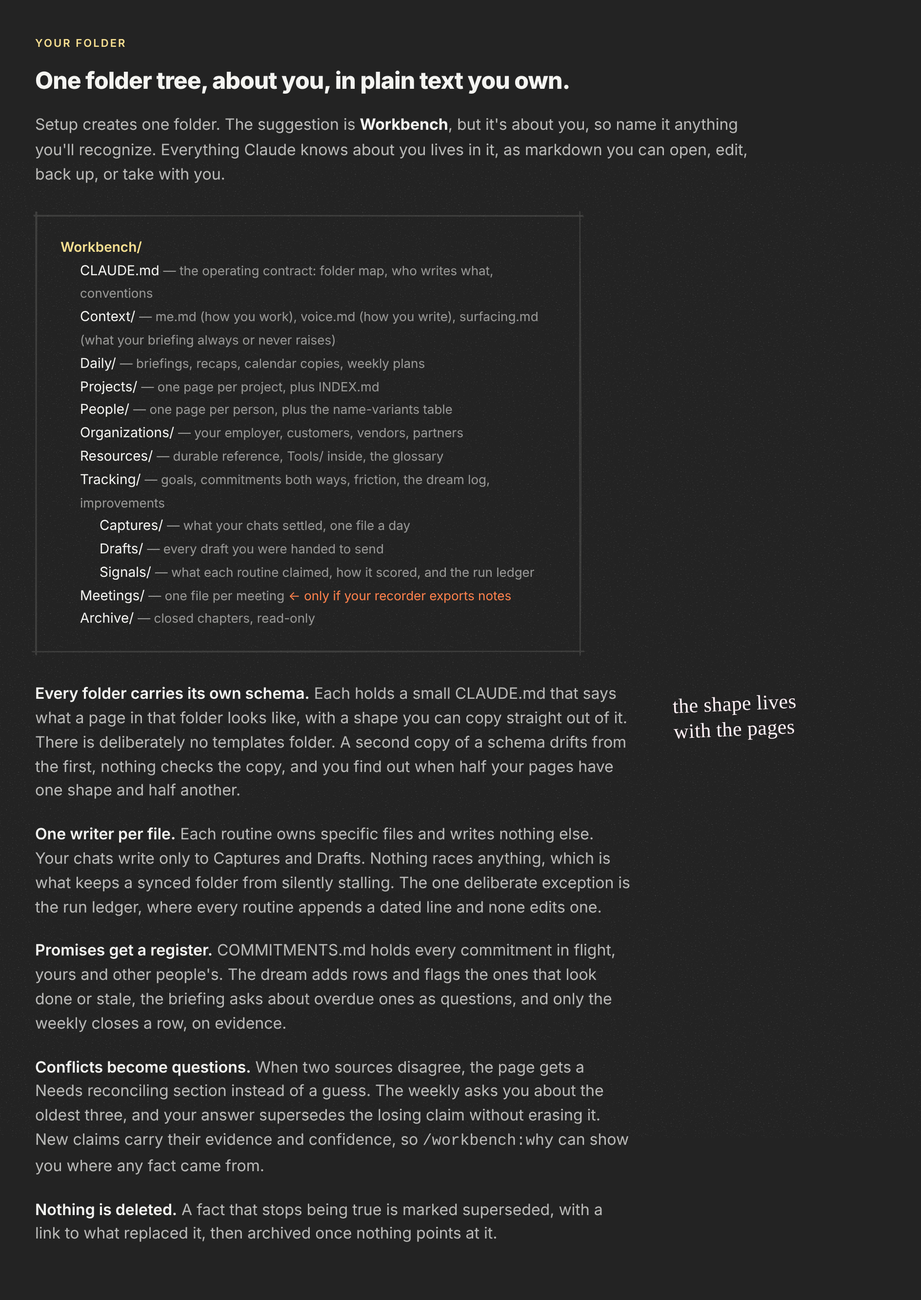
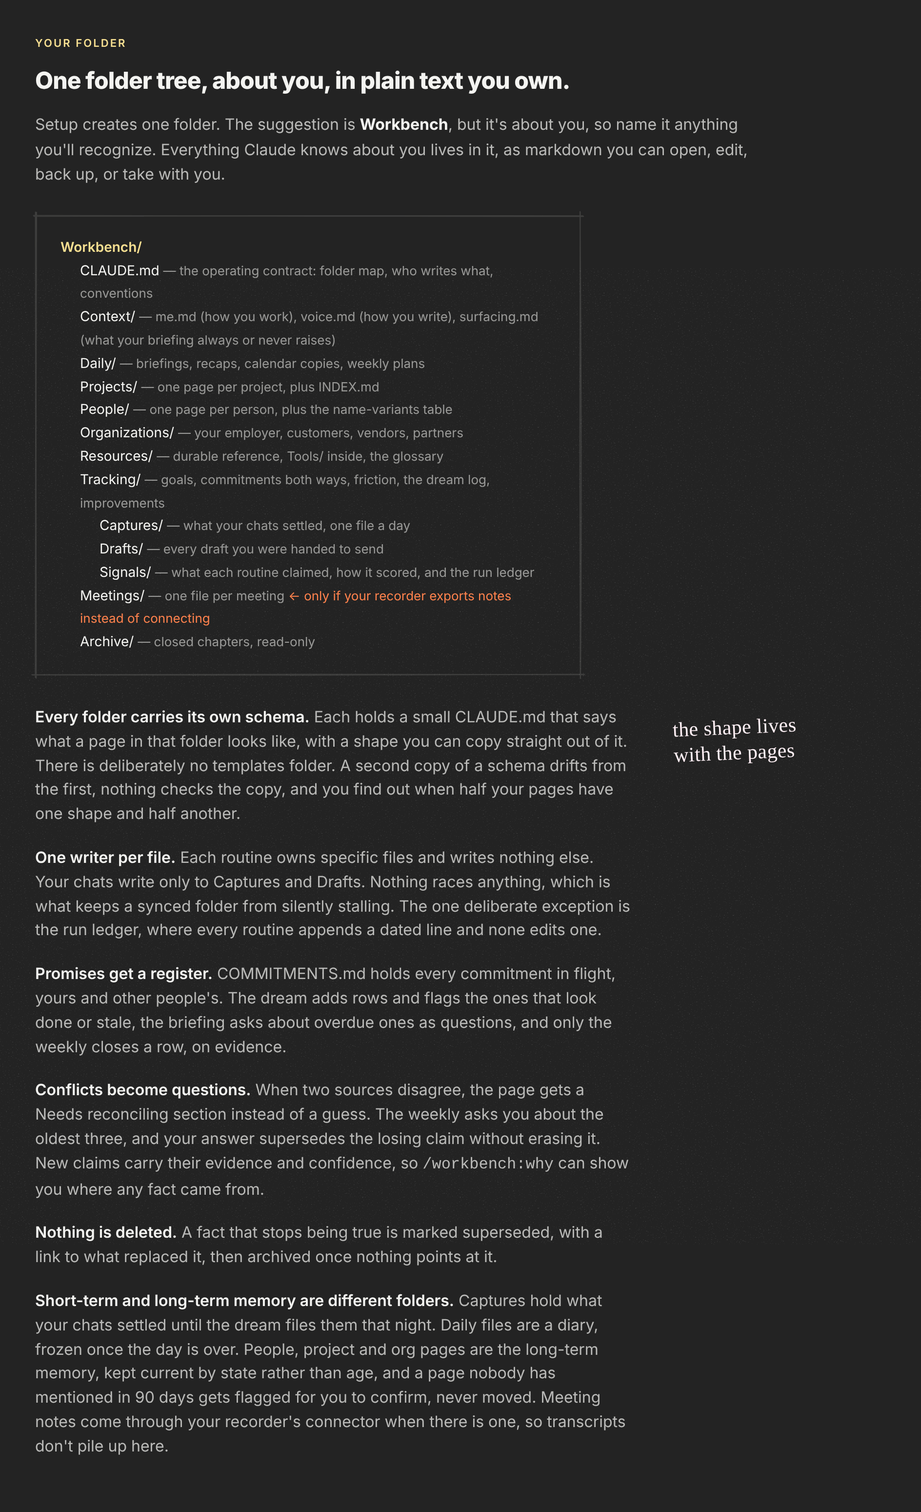
Memory layers, dormant-page check, and connector-first meetings
- Root CLAUDE.md gains 'How memory works': each layer, what it holds, how
  long it stays live, and what moves it. Nothing new is archived by age.
- Librarian check 30 flags active pages nobody has mentioned in 90 days,
  as a question; the weekly lists them and never changes status itself.
- Setup settles meetings connector first: a working recorder connector
  means no Meetings/ folder and no transcripts in the vault; the recap and
  briefing read summaries and next steps through it. A folder export is
  the fallback, full transcripts only on request after the privacy note.
  New profile field meetings_via; old profiles keep their folder.
- Meetings/CLAUDE.md states the recorder owns the folder and nothing in
  it is ever moved.

Claude-Session: https://claude.ai/code/session_011tCn5dThA4EJWQmFc8HRHw

Changed region(s): [[0.0312, 0.0312, 0.8125, 0.9658], [0.75, 0.5297, 0.875, 0.592], [0.75, 0.4673, 0.875, 0.4985]]

diff --git a/docs/index.html b/docs/index.html
@@ -1095,7 +1095,7 @@ Chalk.registerRenderer('chain', function (svg, el, w, h) {
                 <li>Signals/ <span class="why">&mdash; what each routine claimed, how it scored, and the run ledger</span></li>
               </ul>
             </li>
-            <li>Meetings/ <span class="why">&mdash; one file per meeting</span> <span class="why" style="color:var(--orange)">&larr; only if your recorder exports notes</span></li>
+            <li>Meetings/ <span class="why">&mdash; one file per meeting</span> <span class="why" style="color:var(--orange)">&larr; only if your recorder exports notes instead of connecting</span></li>
             <li>Archive/ <span class="why">&mdash; closed chapters, read-only</span></li>
           </ul>
         </li>
@@ -1126,6 +1126,12 @@ Chalk.registerRenderer('chain', function (svg, el, w, h) {
         <p><strong>Nothing is deleted.</strong> A fact that stops being true is marked
           superseded, with a link to what replaced it, then archived once nothing points
           at it.</p>
+        <p><strong>Short-term and long-term memory are different folders.</strong> Captures
+          hold what your chats settled until the dream files them that night. Daily files are
+          a diary, frozen once the day is over. People, project and org pages are the long-term
+          memory, kept current by state rather than age, and a page nobody has mentioned in
+          90 days gets flagged for you to confirm, never moved. Meeting notes come through
+          your recorder's connector when there is one, so transcripts don't pile up here.</p>
       </div>
       <aside class="margin-note">
         <span class="hand sm">the shape lives<br>with the pages</span>
@@ -1607,9 +1613,9 @@ Chalk.registerRenderer('chain', function (svg, el, w, h) {
       <div class="rbox card" style="--rb:var(--hair)">
         <span class="tag once">Ask for it</span>
         <h4>Librarian</h4>
-        <p><b>What it does.</b> Audits the folder across 33 checks: stale pages, dead links,
+        <p><b>What it does.</b> Audits the folder across 34 checks: stale pages, dead links,
           duplicates, one-sided relationships, routines missing from the run ledger, a
-          malformed commitments register, conflicts left unreconciled.</p>
+          malformed commitments register, conflicts left unreconciled, pages gone quiet.</p>
         <p><b>How you use it.</b> "Run the librarian" or "audit my folder".</p>
         <p><b>What it writes.</b> A report. Nothing until you approve a fix.</p>
       </div>

diff --git a/scripts/workbench.py b/scripts/workbench.py
@@ -111,6 +111,18 @@ def apply_blocks(text: str, keep: set[str]) -> str:
     return BLOCK.sub(lambda m: m.group(2) if m.group(1) in keep else "", text)
 
 
+def meetings_via_of(profile: dict) -> str:
+    """How meetings reach the workbench: 'connector', 'export' (files into Meetings/), or ''.
+
+    Profiles from before 0.2.0 name a recorder in `meetings_source` without `meetings_via`; that always
+    meant an export folder, so it still does.
+    """
+    via = (profile.get("meetings_via") or "").strip().lower()
+    if via in ("connector", "export"):
+        return via
+    return "export" if (profile.get("meetings_source") or "").strip() else ""
+
+
 def is_repo_vault(profile: dict, root: Path) -> bool:
     home = (profile.get("vault_home") or "").strip().lower()
     return home == "repo" if home else (root / ".git").exists()
@@ -177,7 +189,9 @@ def build_context(profile: dict, root: Path):
                     f"{c.get('via') or c.get('notes') or '—'} |")
 
     guardrails = pack.get("guardrails", []) + profile.get("guardrails", [])
-    meetings_source = (profile.get("meetings_source") or "").strip()
+    meetings_tool = (profile.get("meetings_source") or "").strip()
+    meetings_via = meetings_via_of(profile)
+    meetings_source = meetings_tool if meetings_via == "export" else ""  # only an export makes Meetings/
     function_tags = list(dict.fromkeys(pack.get("function_tags", []) + profile.get("extra_tags", [])))
 
     delivery = profile.get("delivery") or {}
@@ -234,6 +248,9 @@ def build_context(profile: dict, root: Path):
         "function_tags": ", ".join(f"`{x}`" for x in function_tags),
         "guardrails_rules": "\n".join(f"{4 + i}. {g}" for i, g in enumerate(guardrails)),
         "meetings_source": meetings_source or "a meeting recorder",
+        "meetings_memory_row": ("\n| Source records | `Meetings/` | " + meetings_source + "'s notes, one file per meeting "
+                                "| owned by " + meetings_source + " | never moved, archived or edited by the workbench |")
+                               if meetings_source else "",
         "meetings_row": ("\n| `Meetings/` | One file per meeting, exported from " + meetings_source +
                          " | Never by hand: the export writes it |") if meetings_source else "",
         "workbench_path": str(profile.get("workbench_path") or root),
@@ -300,7 +317,7 @@ _Maintained nightly by nightly-dream._
 
 def desired_state(profile: dict, root: Path):
     ctx, base, _pack = build_context(profile, root)
-    flags = {"meetings": bool(profile.get("meetings_source")), "company": bool(profile.get("company")),
+    flags = {"meetings": meetings_via_of(profile) == "export", "company": bool(profile.get("company")),
              "obsidian": profile.get("obsidian", True) is not False, "manager": bool(profile.get("manager")),
              "repo": is_repo_vault(profile, root)}
     blocks = {name for name, on in {"repo-vault": flags["repo"],

diff --git a/tests/test_workbench.py b/tests/test_workbench.py
@@ -95,6 +95,23 @@ class FreshBuild(Base):
         self.assertIn("`Meetings/`", (self.root / "CLAUDE.md").read_text())
         self.assertIn("## Transcript", instructions.read_text())
 
+    def test_meetings_by_connector_make_no_folder(self):
+        self.apply(dict(PROFILE, meetings_source="Granola", meetings_via="connector"))
+        self.assertFalse((self.root / "Meetings").exists(), "a connector needs no Meetings/ folder")
+        self.assertNotIn("`Meetings/`", (self.root / "CLAUDE.md").read_text())
+        self.assertNotIn("## Transcript", (self.root / ".workbench/PROJECT_INSTRUCTIONS.md").read_text())
+        self.apply(dict(PROFILE, meetings_source="Granola", meetings_via="export"))
+        self.assertIn("Granola", (self.root / "Meetings/CLAUDE.md").read_text())
+        self.assertIn("| Source records | `Meetings/` | Granola's notes", (self.root / "CLAUDE.md").read_text())
+
+    def test_root_contract_explains_memory_layers(self):
+        self.apply()
+        claude = (self.root / "CLAUDE.md").read_text()
+        self.assertIn("## How memory works", claude)
+        for layer in ["Working memory", "Diary", "Long-term", "Measurement", "Cold storage"]:
+            self.assertIn(f"| {layer} |", claude)
+        self.assertNotIn("Source records", claude, "no Meetings row without an export")
+
     def test_delivery_channel_lands_in_the_contract(self):
         self.apply(dict(PROFILE, delivery={"channel": "slack", "target": "DM to myself"}))
         self.assertIn("a Slack message (DM to myself)", (self.root / "CLAUDE.md").read_text())

diff --git a/skills/setup/SKILL.md b/skills/setup/SKILL.md
@@ -53,8 +53,8 @@ from the account, the company from an email domain.
 - What counts as urgent for you
 - How you like answers: length, tone, format, pet peeves
 - Any calendar blocks that should never show up in a briefing (personal, focus time)
-- Do you record meetings with a tool that can export notes into a folder? If yes, which one?
-  That turns on `Meetings/`.
+- Do you record meetings? If yes, with which tool? (How the notes reach the workbench is settled
+  in step 3, connector first.)
 
 **Round 2b: which Claude, and where the vault lives.** Ask this before the routines, because it
 decides where they run.
@@ -127,6 +127,29 @@ For each tool they named:
 3. Nothing matches → `missing`. No connector exists anywhere for it (an internal system) → `manual`.
 4. If you can suggest connectors to install, do that for the missing ones.
 
+### Meetings: connector first
+
+If they record meetings, settle how the notes reach the workbench, in this order. There's no
+sync script and never will be; every recorder is different, so the workbench only reads.
+
+1. **A connector for the recorder works** (it passed the read-only call above): use it. Set
+   `meetings_source` to the tool and `meetings_via` to `connector`. No `Meetings/` folder is made.
+   The recap reads each day's meeting summaries, decisions and next steps through the connector,
+   never the transcripts. This is the default and the right answer for most people.
+2. **No connector, but the tool can export notes to a folder**: show them how to point that
+   export at `<workbench>/Meetings/` (from the tool's own settings; you don't know every tool, so
+   say what to look for rather than inventing menu names). Set `meetings_via` to `export`. That
+   turns on `Meetings/`, which the tool writes and the workbench only reads.
+3. **Neither**: if a connector exists for the tool but isn't installed, suggest it. Otherwise
+   skip meetings (`meetings_source: ""`). Say plainly that the recap still sees meetings through
+   the calendar, email and chat; it just won't have the recorder's notes.
+
+Only if they ask to keep **full transcripts** in the vault (they need exact quotes long-term)
+does an export make sense when a connector also works. Say the cost once before they choose:
+transcripts hold other people's exact words, some employers don't allow keeping them outside the
+recording tool, recording-consent rules vary by place, and in a repo vault they'd sit in git
+history. Then let them decide.
+
 Never send, post or change anything in another tool during setup. Tell them plainly what's missing
 and where to fix it: **Settings → Connectors** in the Claude apps, or `claude mcp add` in Claude
 Code. Missing tools don't block setup; every routine skips what it can't reach and says so.
@@ -155,6 +178,7 @@ Write the profile as JSON to a scratch file:
     { "tool": "Salesforce", "status": "missing" }
   ],
   "meetings_source": "",
+  "meetings_via": "",
   "goals": ["Hit 120% of Q4 quota"],
   "urgent_means": ["A customer escalation", "Anything from my manager marked today"],
   "private_blocks": ["School pickup 15:00"],

diff --git a/README.md b/README.md
@@ -160,7 +160,7 @@ After setup, create one Claude project named after you, attach the folder, and p
 | `/workbench:setup` | Onboard, or change your role, tools, hours, delivery or routines. |
 | `/workbench:schedules` | Make your scheduled tasks match the plan. Older look-alikes are paused, not deleted. |
 | `/workbench:migrate` | Upgrade after a plugin update without losing your edits, or adopt an older vault. |
-| `/workbench:librarian` | Get a health report across 33 checks: stale pages, broken links, duplicates, one-sided relationships, missed routines, a malformed commitments register, conflicts left unreconciled. |
+| `/workbench:librarian` | Get a health report across 34 checks: stale pages, broken links, duplicates, one-sided relationships, missed routines, a malformed commitments register, conflicts left unreconciled, pages gone quiet. |
 | `/workbench:capture` | Log what a chat settled, from any chat in any surface. Usually happens on its own. |
 | `/workbench:daily-briefing`, `eod-recap`, `nightly-dream`, `weekly-review`, `calendar-sync` | The routines. They run on schedule, and you can run any of them by hand. |
 | `/workbench:person <name>` | Everything the folder knows about someone and what's open between you. |
@@ -173,6 +173,10 @@ After setup, create one Claude project named after you, attach the folder, and p
 ![Claude's three kinds of memory and how much to trust each](docs/assets/workbench-memory.png)
 
 ![Moving over from an older version or your own notes vault](docs/assets/workbench-moving-over.png)
+
+**How long things stay.** The folders are layers. Captures are working memory until the dream files them that night. `Daily/` is a diary: past days are frozen and kept. People, project and org pages are long-term memory, kept current by state (live above superseded) rather than by age. Only superseded, shipped or former things move to `Archive/`, on the weekly's rules, and a page nobody has mentioned in 90 days is flagged for you to confirm, never moved. The full table is in your folder's root `CLAUDE.md`.
+
+**Meetings come in through your recorder, not a script.** If Claude can connect to your recording tool, setup uses that: the recap reads each day's summaries, decisions and next steps, and no transcripts land in your folder. If it can't connect but the tool can export notes to a folder, setup shows you how to point the export at `Meetings/`, which the workbench then only reads. Full transcripts are kept only if you ask, after setup explains that they hold other people's exact words.
 
 **Safe upgrades.** The plugin records a hash of every file it writes in `.workbench/manifest.json`. Files nobody touched are refreshed; files you edited stay as they are and the new version lands beside them as `*.workbench-new`; content pages (people, projects, goals, logs) are never rewritten by the plugin. `/workbench:migrate` walks you through merging.
 

diff --git a/CHANGELOG.md b/CHANGELOG.md
@@ -13,12 +13,14 @@ Dual-runtime support and memory that behaves more like judgment than storage.
 - Claim lineage: new briefing and recap claims carry `evidence:` (a quote of 25 words or fewer, or a page reference) and `confidence:`. New read-only command `/workbench:why <claim>` shows the evidence, confidence, entry date and supersession chain
 - Capture works from any chat in any surface; a chat that can't reach the folder hands back the capture lines to paste
 - Project instructions gain Cowork-only and repo-vault blocks, kept or dropped by the scaffolder to match the profile
-- Librarian: 33 checks (four new: commitments register shape, surfacing page sections, reconciling sections older than 14 days, repo clone behind its remote)
+- Librarian: 34 checks (five new: commitments register shape, surfacing page sections, reconciling sections older than 14 days, repo clone behind its remote, dormant pages nobody has mentioned in 90 days)
+- How memory works: the root `CLAUDE.md` gains a table of the memory layers (captures, diary, long-term pages, measurement, meetings, archive), what each holds, how long it stays live, and what moves it. Nothing new is archived by age
+- Meetings, connector first: setup uses the recorder's connector when it works (no `Meetings/` folder, no transcripts in the vault; the recap and briefing read summaries, decisions and next steps through it), falls back to pointing the tool's own export at `Meetings/`, and keeps full transcripts only on request, after explaining the privacy cost. No sync script. `Meetings/` is owned by the recorder and never moved by the workbench
 - Package hygiene test: fails if the package ever gains a `bin/` folder, an LSP server, output styles, themes, or a `settings` component, any of which makes Cowork refuse the plugin
 
 Content migrations:
 - New files, created by `/workbench:migrate` through the normal `apply` path: `Tracking/COMMITMENTS.md`, `Tracking/Signals/RUN_LEDGER.md`, `Context/surfacing.md`, and `.gitignore` for repo vaults. A file you already have under one of those names is never overwritten; it becomes a `.workbench-new` conflict to merge.
-- Profile gains `surface`, `vault_home` and `repo`; migrate asks for them if missing.
+- Profile gains `surface`, `vault_home`, `repo` and `meetings_via` (`connector` or `export`); migrate asks for them if missing. A profile that names a `meetings_source` without `meetings_via` keeps its `Meetings/` folder, as before.
 - Claim lines written before 0.2.0 keep their old shape (bare confidence, no evidence). Nothing is rewritten.
 - Scheduled task prompts change (each routine's "writes" now names its run-ledger line); `/workbench:schedules` updates them in place.
 

diff --git a/skills/librarian/SKILL.md b/skills/librarian/SKILL.md
@@ -1,6 +1,6 @@
 ---
 name: librarian
-description: Audit the workbench vault against 33 checks and report what's wrong with it: missing frontmatter, broken or path-style links, orphan and duplicate pages, superseded entries without forward links, stale pages, ledger entries missing provenance, unfiled captures, missed routines from the run ledger, a malformed commitments register or surfacing page, unreconciled conflicts, a repo clone behind its remote, one-writer violations, files in the wrong folder. Read-only by default; the weekly routine runs these checks and fixes what's safe. Use for "audit my vault", "is my workbench healthy", "clean up my notes", "find duplicates", or /workbench:librarian.
+description: Audit the workbench vault against 34 checks and report what's wrong with it: missing frontmatter, broken or path-style links, orphan and duplicate pages, superseded entries without forward links, stale pages, ledger entries missing provenance, unfiled captures, missed routines from the run ledger, a malformed commitments register or surfacing page, unreconciled conflicts, a repo clone behind its remote, one-writer violations, files in the wrong folder. Read-only by default; the weekly routine runs these checks and fixes what's safe. Use for "audit my vault", "is my workbench healthy", "clean up my notes", "find duplicates", or /workbench:librarian.
 ---
 
 # Librarian
@@ -21,7 +21,7 @@ only check naming). Skip `.workbench/`, `.obsidian/`, `.git/`.
 
 ## Checks
 
-33 checks, numbered 1–29, with the relationship checks as 13a–13d.
+34 checks, numbered 1–30, with the relationship checks as 13a–13d.
 
 **Structure**
 1. Files in the wrong folder: an entity page in `Daily/`, a dated note in `Resources/`, a person
@@ -91,6 +91,11 @@ only check naming). Skip `.workbench/`, `.obsidian/`, `.git/`.
     behind its remote by more than one day of commits: fetch read-only (`git fetch --dry-run` or
     compare `git log HEAD..@{u}`), and include unmerged `claude/` branches from cloud runs. If it's
     behind, report the gap: how many commits, how old the oldest, which branches.
+30. Dormant pages: a person, project, organization or tool page with `status: active` that no
+    recap, capture, meeting or other live page has mentioned in 90 days, and whose `updated:` is
+    90+ days old. Report each as a question ("still current, or has this ended?"). Never change its
+    status or move it; a quiet page may still be true. The answer comes back as a capture and the
+    dream applies it.
 
 ## Report
 

diff --git a/templates/pages/root-CLAUDE.md b/templates/pages/root-CLAUDE.md
@@ -207,6 +207,24 @@ Any routine that writes to a page bumps that page's `updated:` in the same chang
    exception is the briefing digest to the owner, below.
 {{guardrails_rules}}
 
+## How memory works
+
+The folders are layers of memory, from what was said an hour ago to what's true for good. Each
+layer has one way in and a stated rule for how long it stays live. Nothing is deleted from any of
+them; old material either stays where it is as history or moves to `Archive/` on a rule below.
+
+| Layer | Where | Holds | Stays live | What moves it |
+|---|---|---|---|---|
+| Working memory | `Tracking/Captures/` | what chats settled today | until the dream files it, normally that night | the dream files each line; the capture file stays as the record |
+| Diary | `Daily/` | what happened on each date: briefings, recaps, calendar copies, weekly plans | routines read the last two weeks | nothing; a past day is frozen and kept as history |
+| Long-term | `People/`, `Projects/`, `Organizations/`, `Resources/`, `Context/`, `Tracking/GOALS.md`, `Tracking/COMMITMENTS.md` | the current truth about people, work and how {{preferred_name}} operates | as long as it's true | the weekly's archive rules (below); a page nobody has mentioned in 90 days is flagged `dormant` by the librarian, never moved |
+| Measurement | `Tracking/Signals/`, `Tracking/Drafts/` | what each routine claimed, how it scored, drafts and their grades | the weekly reads the last four weeks | nothing; append-only |{{meetings_memory_row}}
+| Cold storage | `Archive/` | closed chapters | read only when the question is historical | only the weekly moves files in |
+
+The top of each long-term page is kept current by state, not by hand: `live` entries sit above
+`superseded` ones, and `(dream)` blocks hold five lines or fewer, newest first. Nothing is archived
+by age alone; it has to be superseded, shipped, or former first.
+
 ## Archive policy
 
 `Archive/` is read-only history. Move something there when it stops being referenced, not

diff --git a/skills/eod-recap/SKILL.md b/skills/eod-recap/SKILL.md
@@ -27,7 +27,9 @@ Read in this order, and let the earlier source win when it already settles somet
    supports (`source: capture 14:20`). A settled fact that's already in a capture is never
    re-derived from scratch from email or chat; the capture is the owner's own account of it.
 2. **Calendar events**: what actually happened, from today's calendar file or the connector.
-3. **Meeting notes**, if `Meetings/` exists.
+3. **Meeting notes**: files in `Meetings/` if it exists, or, when `.workbench/profile.json` has
+   `meetings_via: connector`, today's meetings through the recorder's connector (summary,
+   decisions and next steps only; never pull a transcript).
 4. **Project and people pages**, for what was already known going in.
 5. **Git activity**, if the vault is a git repository: commits made today, including cloud
    routine branches.
@@ -39,7 +41,9 @@ The live sweep below fills in what those don't cover.
 Every tool `Context/me.md` marks reachable, for the whole workday, in the role pack's order:
 calendar (what actually happened, not what was planned), email (received **and sent**: sent items
 are how you learn what the owner did), chat DMs, mentions and key channels, tickets and tasks,
-CRM or other role sources, code host, docs edited. If `Meetings/` exists, every meeting file dated
+CRM or other role sources, code host, docs edited. If meetings come through the recorder's connector, read today's
+meetings there the same way: summary, decisions, next steps, cited as `source: <tool> meeting
+<title> HH:MM`. If `Meetings/` exists, every meeting file dated
 today, **above the `## Transcript` marker only**, plus their `Next Steps` and `Decisions` lines.
 
 Skip personal email and personal meetings entirely. Skip anything in "Calendar blocks that never

diff --git a/skills/daily-briefing/SKILL.md b/skills/daily-briefing/SKILL.md
@@ -55,7 +55,9 @@ reading is behind.
    - today's `Daily/<today>_CALENDAR.md` if it exists and isn't `stale`; otherwise the calendar connector
 3. Then the live sources, **only tools `Context/me.md` marks reachable**, since the last recap:
    email, chat DMs and mentions, tickets or tasks due today or tomorrow, the role-specific sources
-   (CRM, code host, etc.). If `Meetings/` exists, yesterday's meeting files, **above the
+   (CRM, code host, etc.). If meetings come through the recorder's connector
+   (`meetings_via: connector` in the profile), yesterday's meeting summaries and next steps there,
+   never transcripts. If `Meetings/` exists, yesterday's meeting files, **above the
    `## Transcript` marker only**.
 
 If a source can't be reached, say so in one line under Notes. Never fill a gap with a guess.

diff --git a/skills/migrate/SKILL.md b/skills/migrate/SKILL.md
@@ -63,7 +63,8 @@ Missing files are created. A file the person already has under one of those name
 overwritten**: `apply` reports it as a `conflict` and writes `<file>.workbench-new` beside it. Merge
 it like any other conflict (step 4): usually keep theirs, add the template's headings or columns
 the routines need, then `pin` it. While you're in the profile, set `surface` and `vault_home` if
-they're missing (ask; detect's `git_repo` is a hint, not an answer), so the `schedules` skill can
+they're missing, and `meetings_via` if they record meetings (offer the connector-first choice from
+`setup` step 3; an existing `Meetings/` export keeps working if they'd rather leave it) (ask; detect's `git_repo` is a hint, not an answer), so the `schedules` skill can
 derive the runner.
 
 ### 4. Resolve conflicts

diff --git a/templates/folders/Meetings.md b/templates/folders/Meetings.md
@@ -9,6 +9,11 @@ One file per meeting, exported from {{meetings_source}}. This folder is the reco
 said, decided and assigned. It is **append-only and machine-written**: don't hand-edit a file
 here; the next export may overwrite it, and the fix belongs on the project page anyway.
 
+**{{meetings_source}} owns this folder; the workbench only reads it.** No routine writes, moves or
+archives a file here, whatever its age. The routines read only recent files, and what matters in a
+meeting (decisions, next steps) is lifted onto project and people pages by the recap and the
+dream, so old files cost nothing.
+
 ## The rule that matters most
 
 **Read only what is above the `## Transcript` marker** (or the export's equivalent). Summaries,
